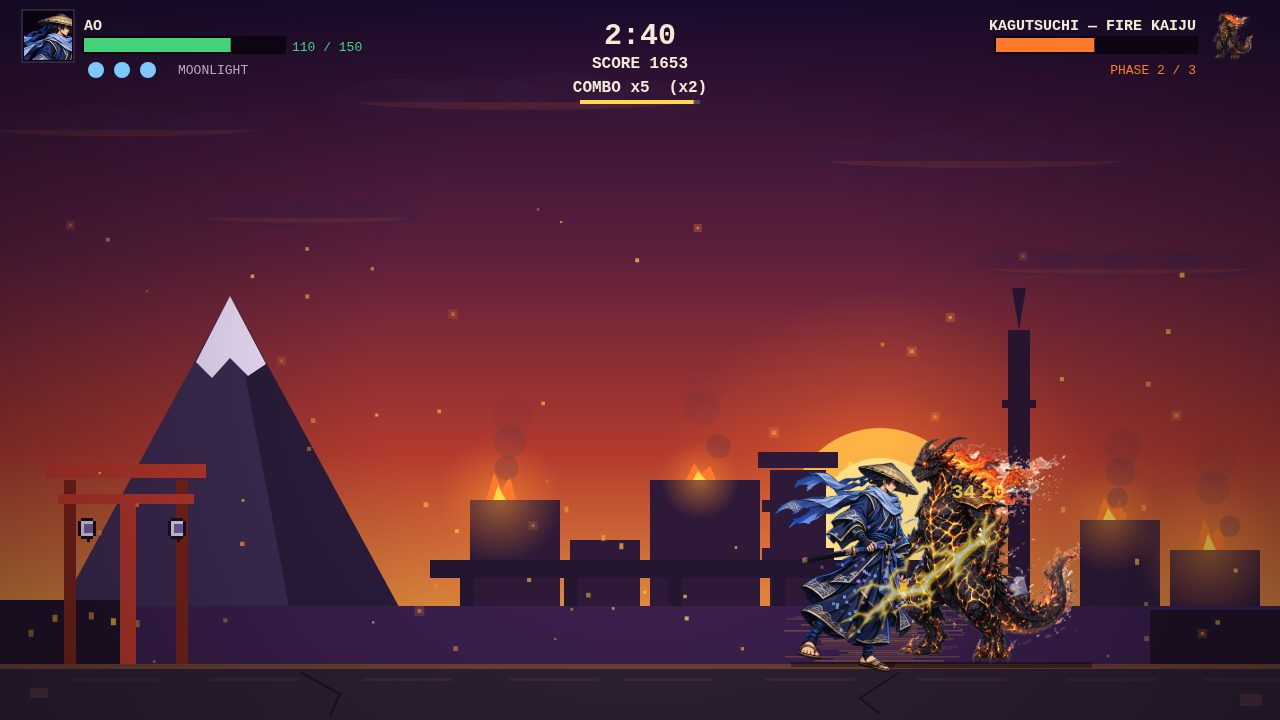
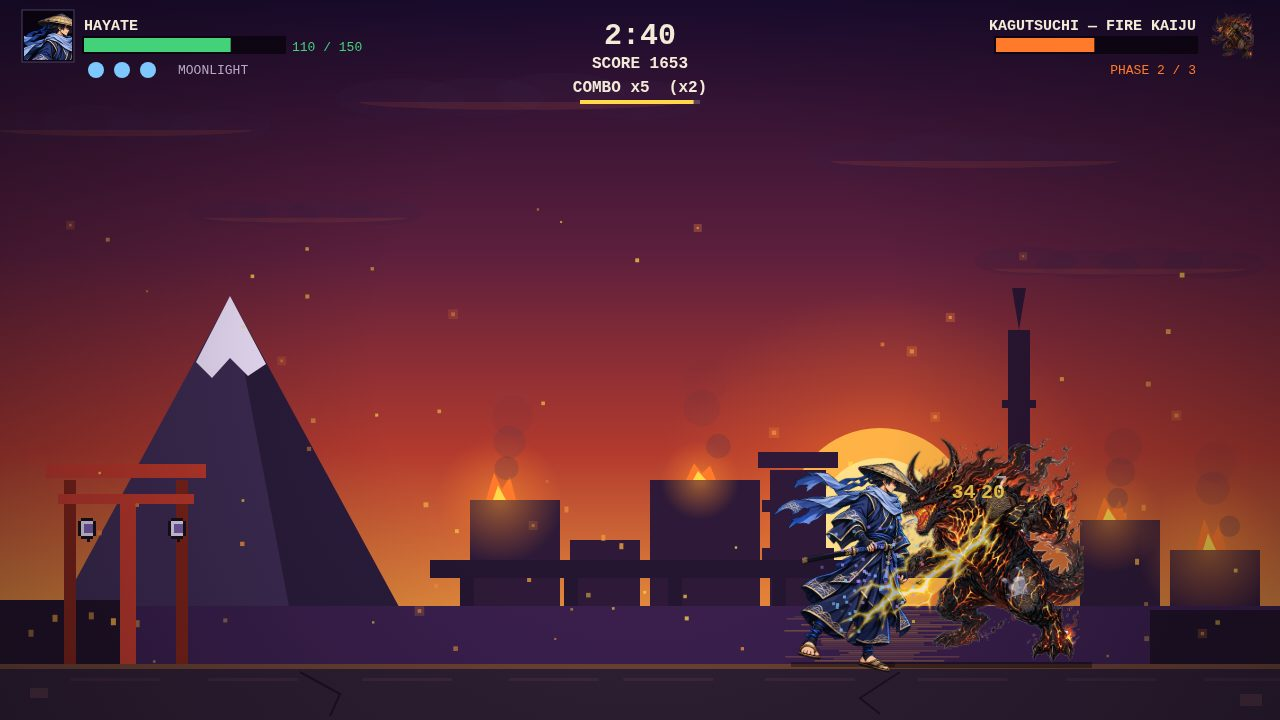
Japanese samurai names: AO -> Hayate, AKA -> Enjin
- Hayate (blue, swift): Hayate = swift wind / gale, fits the fast-slash style
- Enjin (red, mighty): Enjin = flame blade, fits the fire/heavy style
- Names updated in config.js (name + title), HUD, select screen, README
  and code comments. Screenshots re-taken.

Changed region(s): [[0.6875, 0.6111, 0.8438, 0.9167], [0.9375, 0.0, 1.0, 0.0917], [0.0625, 0.0306, 0.0938, 0.0611]]

diff --git a/game/src/config.js b/game/src/config.js
@@ -44,21 +44,21 @@ export const RONIN = {
 };
 
 /** The two playable samurai. Same moveset, different theme AND different
- * feel — AO is swift (fast slashes, lighter blows), AKA is mighty (slow
- * slashes, heavier blows). Slash DPS is near-equal (~27 vs ~26) so neither
- * dominates; the choice is about rhythm, not power. `fx` colours the slash
- * arc and the special projectile; `cloth`/`dark` are the sprite palette
- * keys used by the variant (see sprites.js). */
+ * feel — Hayate is swift (fast slashes, lighter blows), Enjin is mighty
+ * (slow slashes, heavier blows). Slash DPS is near-equal (~27 vs ~26) so
+ * neither dominates; the choice is about rhythm, not power. `fx` colours
+ * the slash arc and the special projectile; `cloth`/`dark` are the sprite
+ * palette keys used by the variant (see sprites.js). */
 export const SAMURAI_VARIANTS = {
   blue: {
-    id: 'blue', name: 'AO', title: 'Blue Samurai',
+    id: 'blue', name: 'HAYATE', title: 'Hayate',
     tagline: 'Calm as the moon, a blade of light.',
     style: 'SWIFT — FAST SLASHES, LIGHTER BLOWS',
     slashDamage: 7, slashCooldown: 0.26, heavyDamage: 20,
     slash: '#8ef1ff', slashCore: '#f3f7ff', special: '#8ef1ff', specialCore: '#f2e9ff',
   },
   red: {
-    id: 'red', name: 'AKA', title: 'Red Samurai',
+    id: 'red', name: 'ENJIN', title: 'Enjin',
     tagline: 'Burning like fire, a blade of embers.',
     style: 'MIGHTY — SLOW SLASHES, HEAVIER BLOWS',
     slashDamage: 10, slashCooldown: 0.38, heavyDamage: 26,

diff --git a/game/src/render.js b/game/src/render.js
@@ -797,7 +797,7 @@ export function createRenderer(canvas, assets) {
         const set = SPRITES.samurai[card.id];
         drawPixelSprite(ctx, set.idle[0], cx, 420, 5);
       }
-      // Name + tagline + fighting style (AO swift, AKA mighty).
+      // Name + tagline + fighting style (Hayate swift, Enjin mighty).
       ctx.fillStyle = PALETTE.text;
       ctx.font = `bold 26px ${FONT}`;
       ctx.fillText(card.variant.title.toUpperCase(), cx, 468);

diff --git a/game/src/sprites.js b/game/src/sprites.js
@@ -642,7 +642,7 @@ const SAMURAI_BLUE = {
   hurt: SAMURAI_HURT,
 };
 
-/** AKA (red): indigo cloth -> bright red, shadows/hakama -> dark red, sash -> gold. */
+/** ENJIN (red): indigo cloth -> bright red, shadows/hakama -> dark red, sash -> gold. */
 const SAMURAI_RED = recolorSamurai(SAMURAI_BLUE, { B: 'A', D: 'a', Q: 'a', A: 'X' });
 
 /** Recolour a kaiju pose set (closed/open) through a key->key map. */

diff --git a/game/src/assets.js b/game/src/assets.js
@@ -1,4 +1,4 @@
-// Raster art assets: the two GPT-generated samurai (blue AO, red AKA),
+// Raster art assets: the two GPT-generated samurai (blue Hayate, red Enjin),
 // their HUD portraits, the four attack-effect sheets (slash arc,
 // fireball, lightning, dash), and the three generated kaiju (fire
 // KAGUTSUCHI, sea UMIBOZU, dragon SANRYU). All live under game/assets/,

diff --git a/game/src/world.js b/game/src/world.js
@@ -386,7 +386,7 @@ export function createWorld(random) {
     return { raijuHit, phaseUp, comboUp };
   }
 
-  /** The active samurai's attack numbers — AO is swift, AKA is mighty. */
+  /** The active samurai's attack numbers — Hayate is swift, Enjin is mighty. */
   function variantStats() {
     return SAMURAI_VARIANTS[state.samurai || 'blue'];
   }

diff --git a/README.md b/README.md
@@ -15,8 +15,8 @@ fails to load, the game falls back to the code-drawn pixel sprites.
 
 ## Choose your samurai — the kaiju is drawn at random
 
-- **AO, the Blue Samurai** — calm as the moon, a blade of light.
-- **AKA, the Red Samurai** — burning like fire, a blade of embers.
+- **Hayate, the Blue Samurai** — calm as the moon, a blade of light. (Hayate 疾風 = swift wind, gale)
+- **Enjin, the Red Samurai** — burning like fire, a blade of embers. (Enjin 炎刃 = flame blade)
 - Both share one moveset. The boss is drawn at random, equal chance (1/3
   each): **KAGUTSUCHI, the Fire Kaiju** (claws and fireballs),
   **UMIBOZU, the Sea Kaiju** (rams and tsunamis), or **SANRYU, the
@@ -55,8 +55,8 @@ node serve.ts
 - **Combo** — consecutive hits within 2.5 seconds build a chain: every 5 hits
   raises the score multiplier (up to x3). Getting hit, or letting the chain
   run out, breaks it. The HUD shows the combo and the time left to keep it.
-- **Two samurai, two rhythms** — AO (blue) is swift: fast slashes (7 dmg,
-  0.26s), lighter heavy (20). AKA (red) is mighty: slow slashes (10 dmg,
+- **Two samurai, two rhythms** — Hayate (blue) is swift: fast slashes (7 dmg,
+  0.26s), lighter heavy (20). Enjin (red) is mighty: slow slashes (10 dmg,
   0.38s), heavier heavy (26). Slash DPS is near-equal, so the choice is
   about feel, not power.
 - Every attack is telegraphed — ground markers before lightning, a rearing
